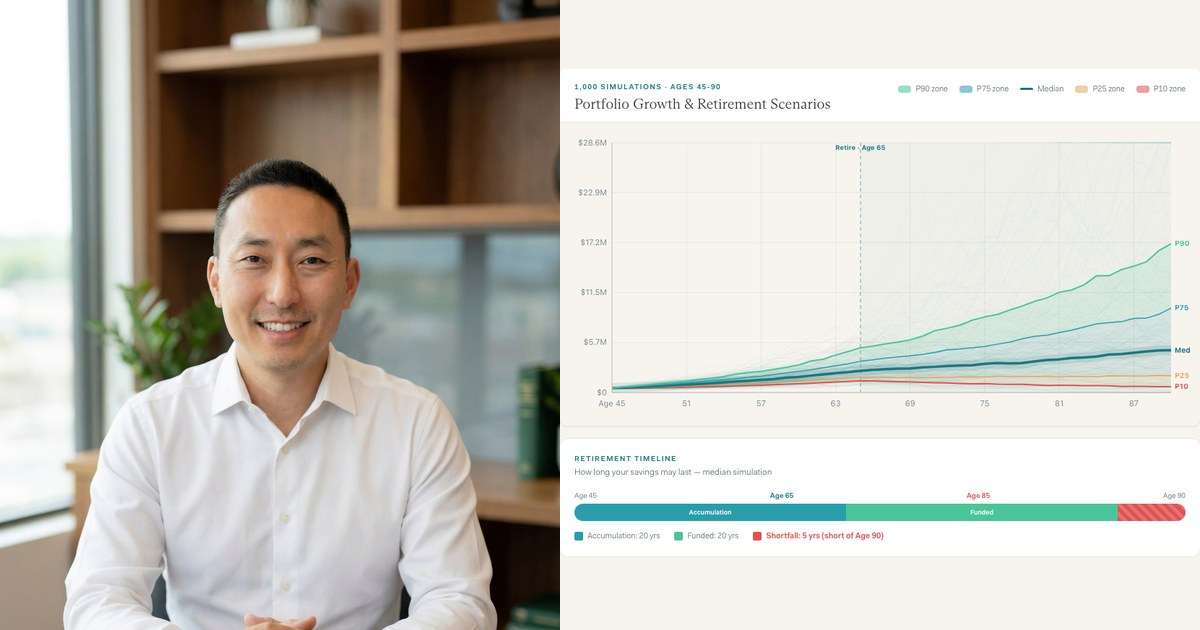
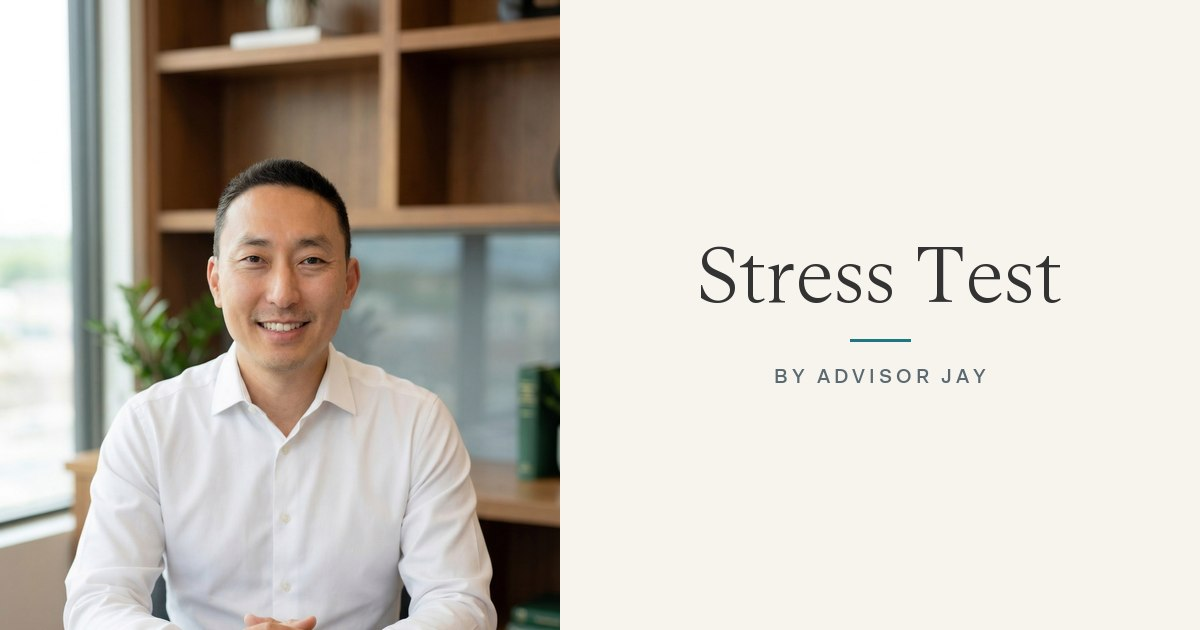
Revert tools OG to text design with new "Stress Test" hook
Replaces the Monte Carlo screenshot with a text-based brand layout:
"Stress Test" headline (serif) with "BY ADVISOR JAY" subline. Same
photo + cream panel system as the homepage. "Stress test" speaks to
HNW clients who think about portfolios the way institutions do.

Splits metadata copy by audience:
- SEO meta description retains "free [calculator]" language for search
  intent, where "free" is a high-value query modifier.
- OG title and description drop "free" entirely. Social previews go
  to a more sophisticated audience where "free" reads downmarket;
  "no sign-up required" carries the friction-removal signal instead.

diff --git a/src/app/tools/page.tsx b/src/app/tools/page.tsx
@@ -10,16 +10,16 @@ export const metadata: Metadata = {
  canonical: 'https://www.advisorjay.com/tools',
  },
  openGraph: {
- title: 'Free Financial Calculators & Planning Tools | Advisor Jay',
+ title: 'Financial Calculators & Planning Tools | Advisor Jay',
  description:
- 'Free financial calculators with instant results. No sign-up required. AT&T pension, PG&E benefits, 401(k) projections, Roth conversions, Social Security, RMDs, and more.',
+ 'Run pension lump-sum, Roth conversion, retirement, and tax scenarios. Instant results, no sign-up required. AT&T, PG&E, 401(k), Social Security, RMDs, and more.',
  url: 'https://www.advisorjay.com/tools',
  images: [
   {
   url: 'https://www.advisorjay.com/Photos/Tools-OG.jpg',
   width: 1200,
   height: 630,
-  alt: 'Free Tools by Advisor Jay',
+  alt: 'Stress Test by Advisor Jay',
   },
  ],
  },
